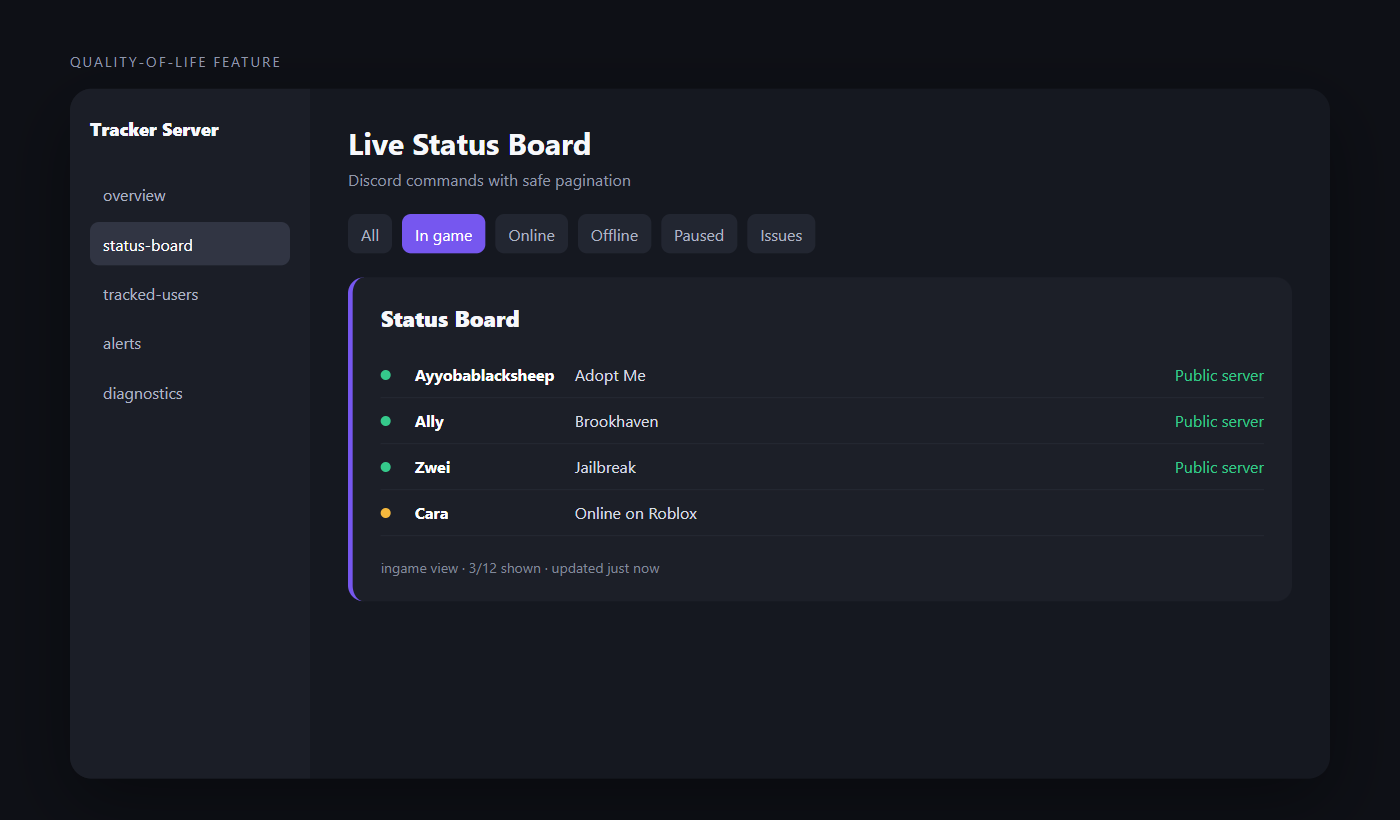
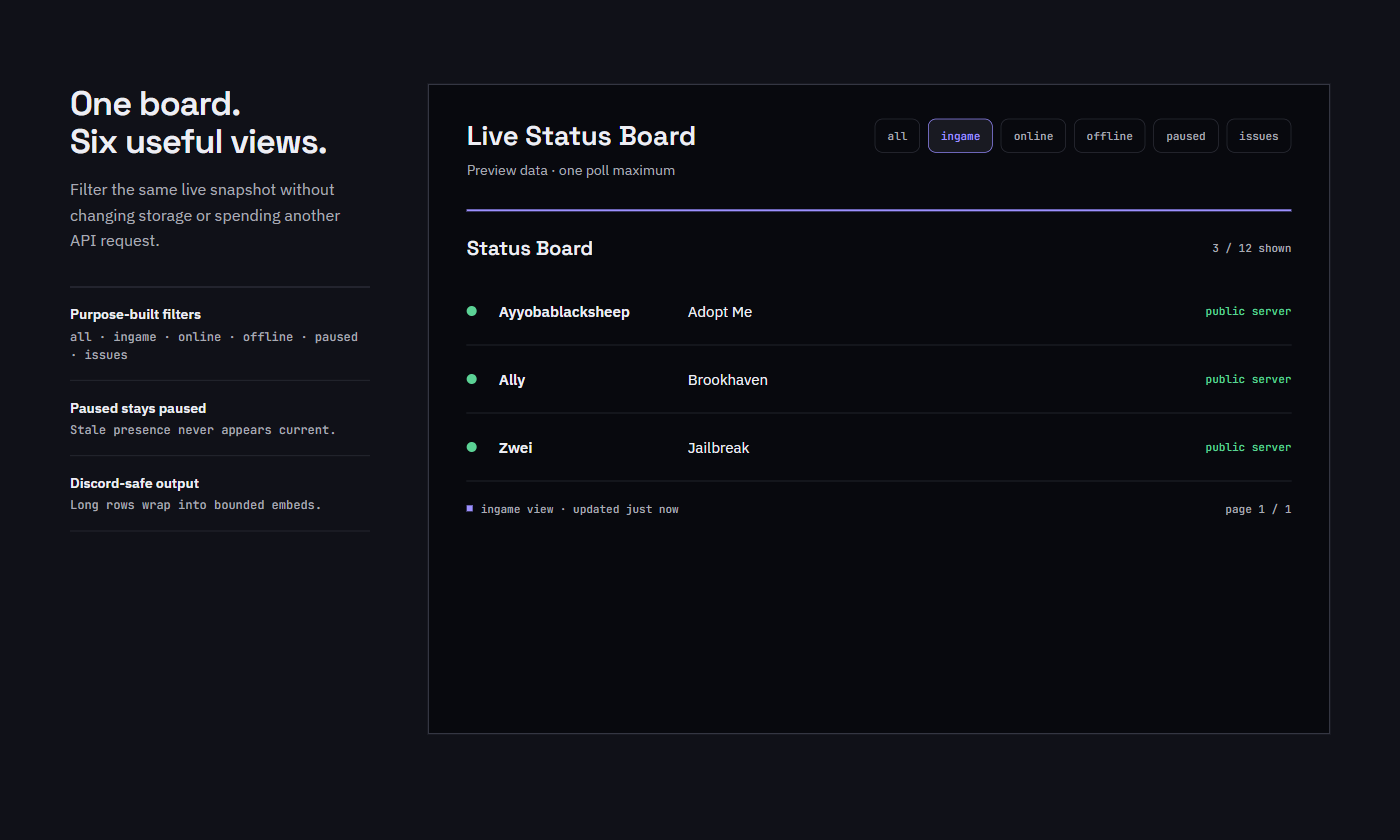
Update documentation

diff --git a/README.md b/README.md
@@ -256,24 +256,6 @@ docs/images/         README visuals
 server.js            HTTP health host and process lifecycle
 ```
 
-## Version history
-
-### 2.5.6
-
-- Transactional and fail-closed storage
-- Lazy and segmented per-user logs
-- Status/account write reduction
-- Session timing and cache optimization
-- Alert inheritance and reset
-- Filtered, Discord-safe status boards
-
-### 2.5.5
-
-- Per-user storage folders
-- Status, history, games, and errors separated by user
-- Automatic legacy migration
-- Unlimited logs and username-folder renames
-
 ## Important
 
 Alicia Tracker is intentionally locked to one configured Discord guild. If it joins another guild, it leaves automatically. Only use authentication credentials for accounts you control.
